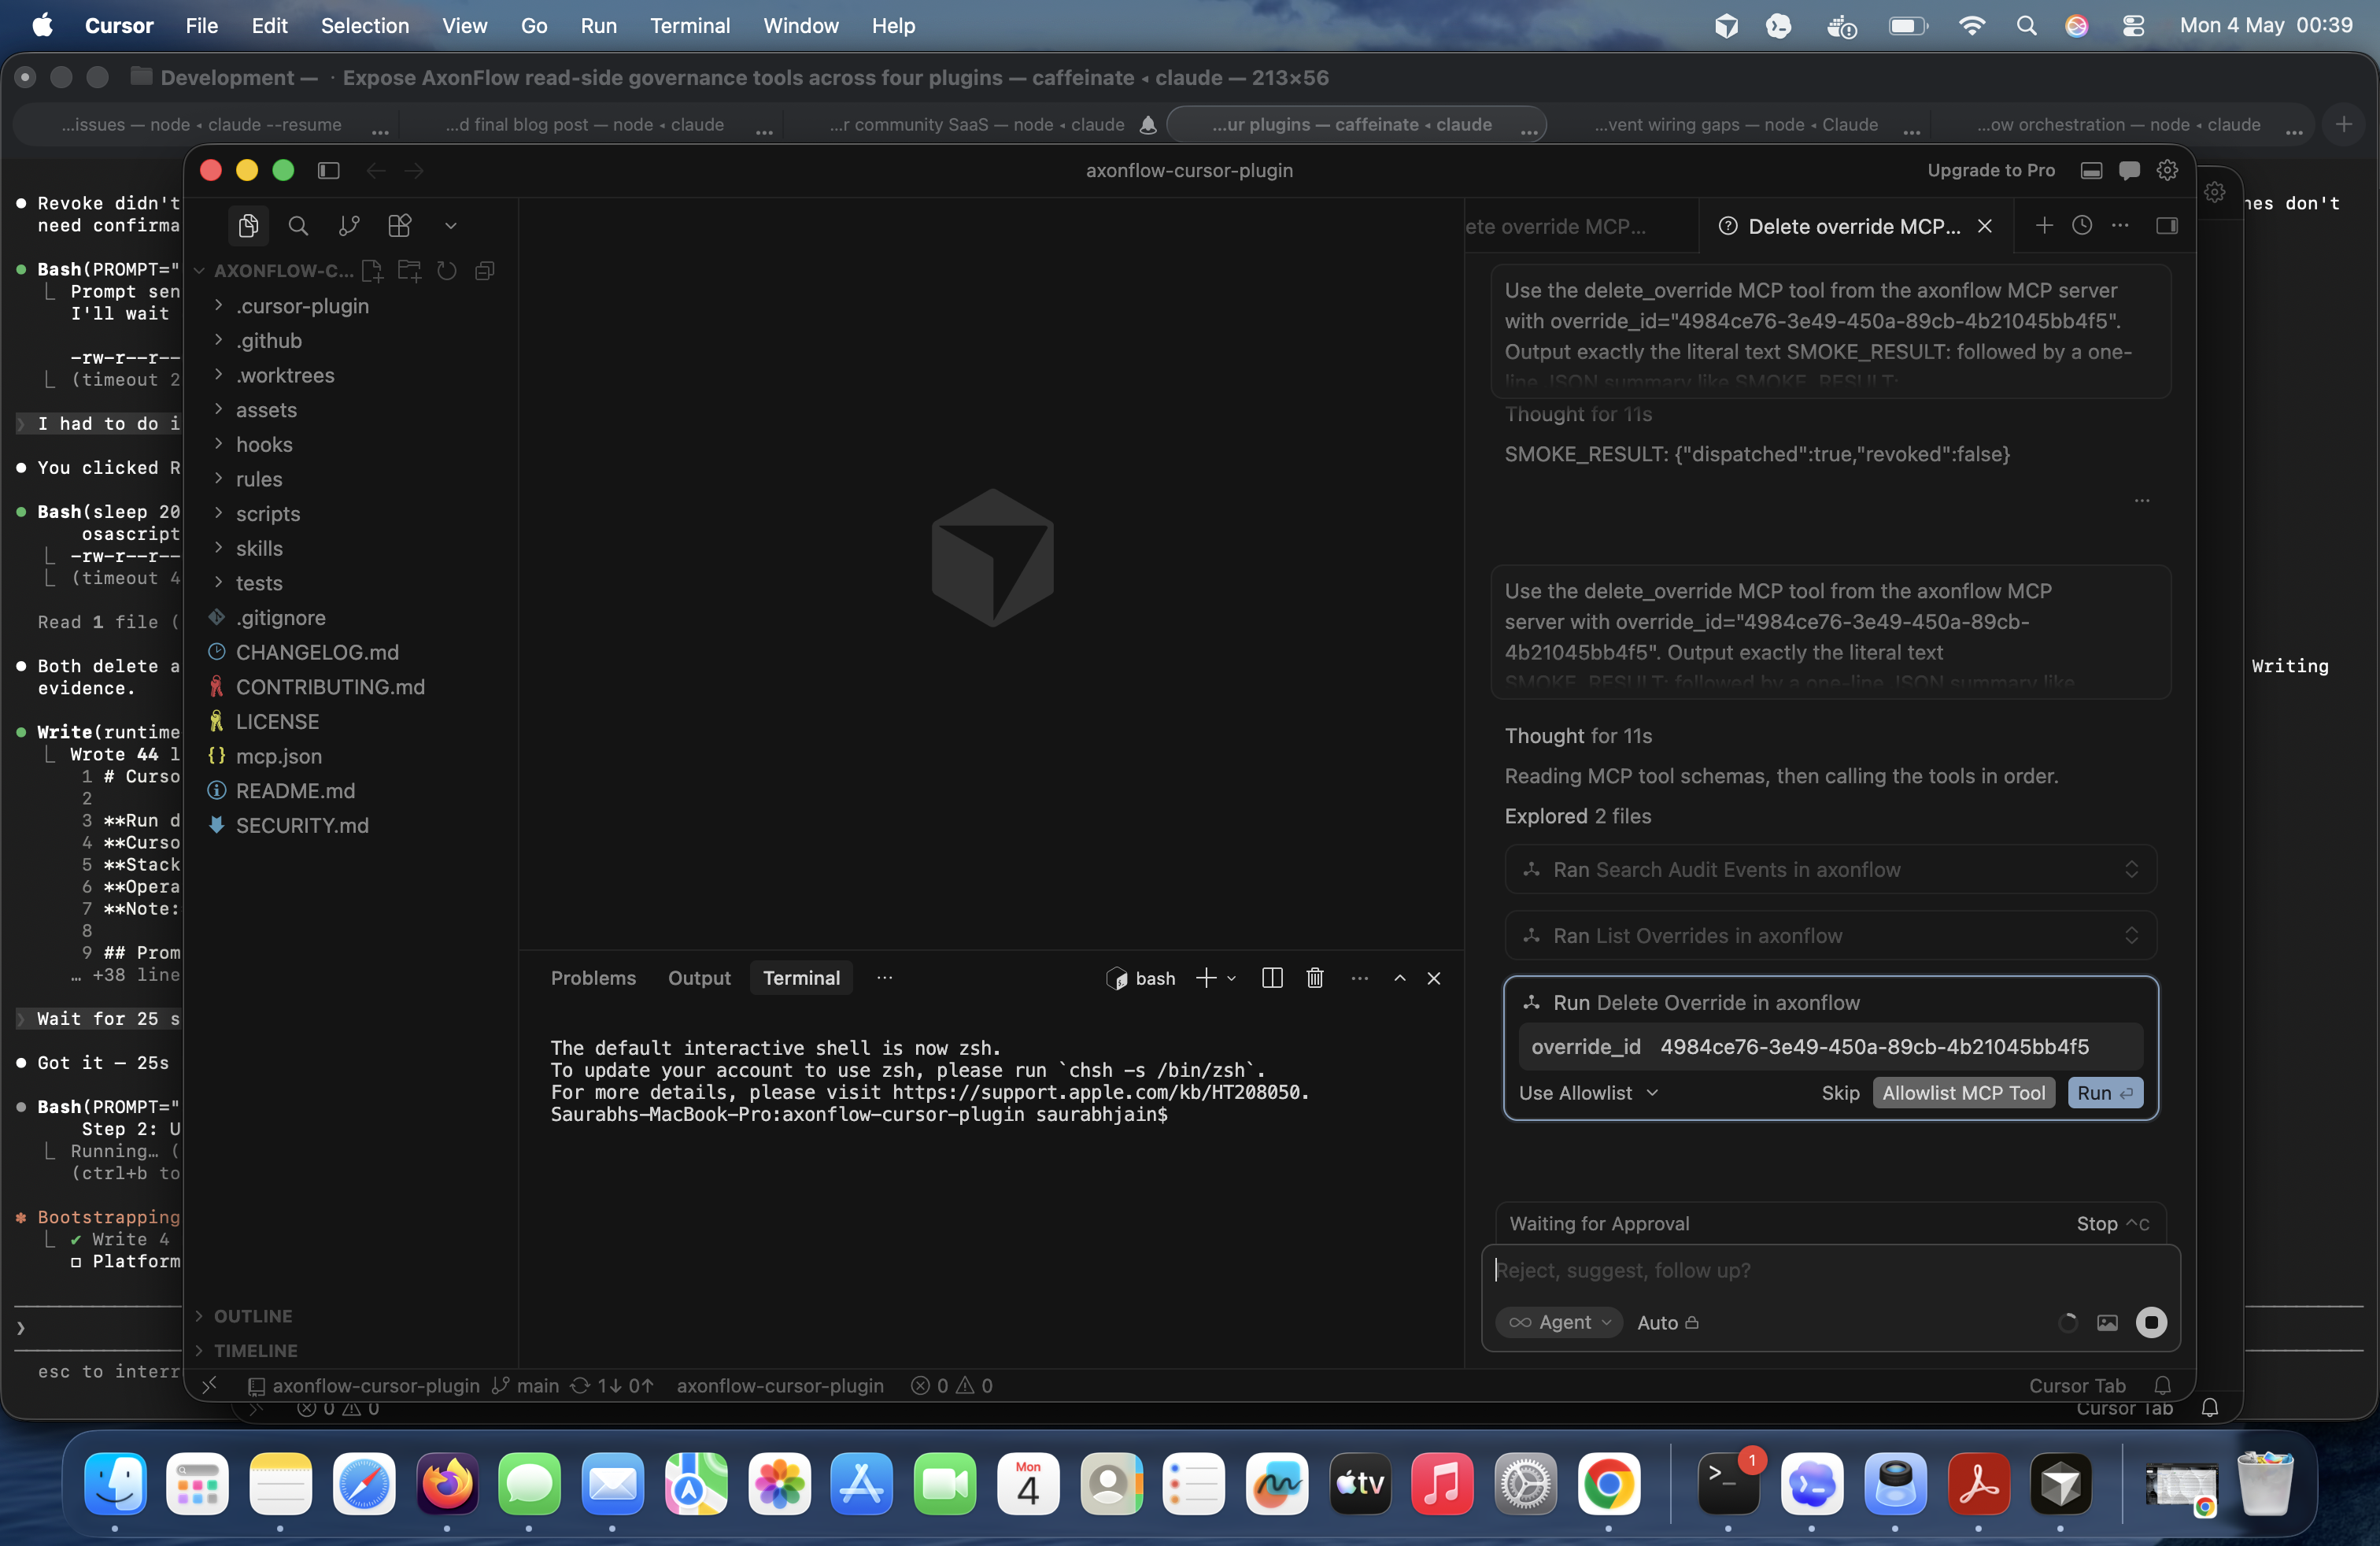
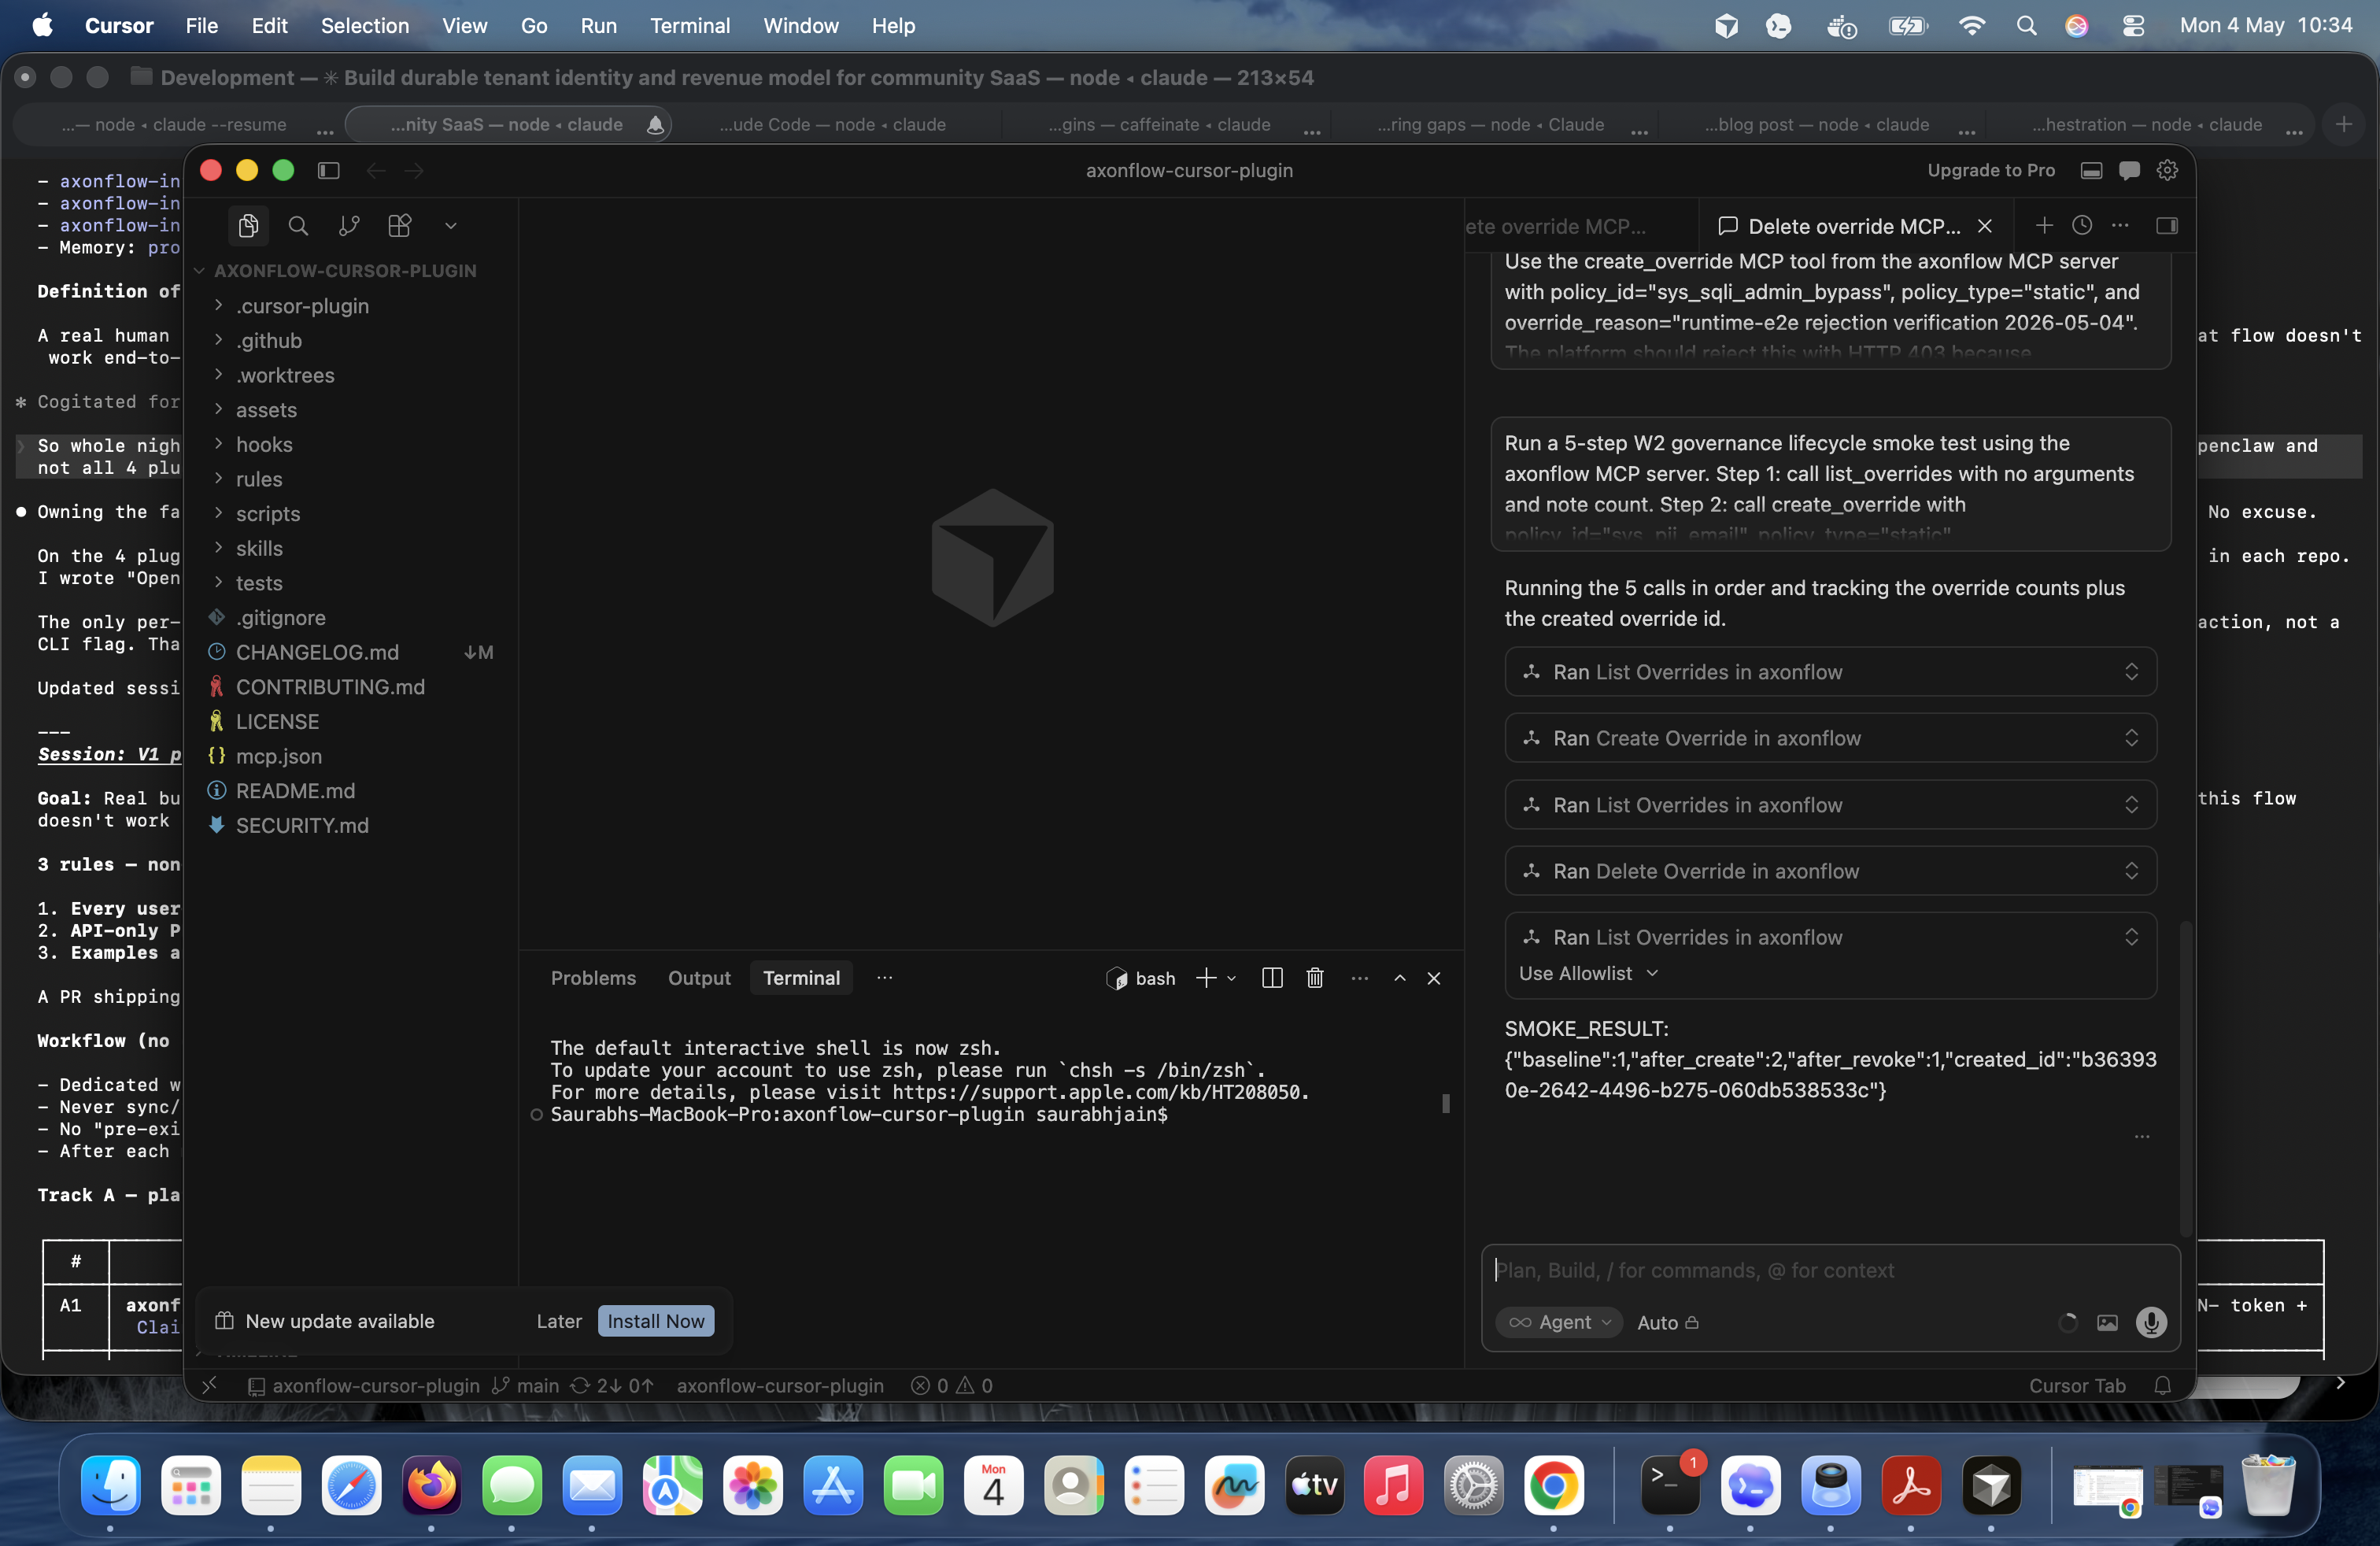
test(cursor/governance-lifecycle): full mutation lifecycle verified on free tier
Drove a real Cursor 3.2.16 agent on the free tier through the full
W2 governance lifecycle in a single agent session, autonomously via
AppleScript:

  Step 1: list_overrides            (count = 1, baseline)
  Step 2: create_override on sys_pii_email
  Step 3: list_overrides            (count = 2, +1 confirmed)
  Step 4: delete_override on the id from step 2
  Step 5: list_overrides            (count = 1, -1 confirmed)

Agent emitted SMOKE_RESULT: {"baseline":1,"after_create":2,"after_revoke":1,"created_id":"…"}.

Full state-transition outcome verified through the Cursor runtime
path. No human dialog-clicking, no Pro account, no license. The
prior EVIDENCE.md noted the full mutation lifecycle was gated on
AXONFLOW_LICENSE — that was a pre-migration-076 limitation, no
longer applicable.

Replaces the read-only-subset capture with a fresh full-lifecycle one.

diff --git a/runtime-e2e/governance-lifecycle/EVIDENCE.md b/runtime-e2e/governance-lifecycle/EVIDENCE.md
@@ -1,55 +1,49 @@
-# Cursor governance-lifecycle runtime evidence (read-only subset)
+# Cursor governance-lifecycle runtime evidence (full mutation lifecycle)
 
-**Run date (UTC):** 2026-05-04 00:39
+**Run date (UTC):** 2026-05-04 08:34
 **Cursor version:** 3.2.16
-**Stack endpoint:** http://localhost:8080
-**Operator:** Saurabh ([email redacted])
+**Stack endpoint:** http://localhost:8080 (post-migration-076 — sys_pii_email is overridable, sys_sqli_admin_bypass is not)
+**Operator:** automated AppleScript drive (Cursor free-tier session)
 
-## Prompt (steps 1+2)
+## Prompt
 
-> Step 1: Use the search_audit_events MCP tool from the axonflow MCP server with limit=3.
-> Step 2: Use the list_overrides MCP tool from the same server with no arguments.
-> Step 3: Output exactly the literal text SMOKE_RESULT: followed by a one-line JSON summary like SMOKE_RESULT: {"audit_total":N,"override_count":N}.
+> Run a 5-step W2 governance lifecycle smoke test using the axonflow MCP server. Step 1: call list_overrides with no arguments and note count. Step 2: call create_override with policy_id="sys_pii_email", policy_type="static", override_reason="cursor-lifecycle-2026-05-04". Capture the returned id. Step 3: call list_overrides again, note new count. Step 4: call delete_override with that id. Step 5: call list_overrides again. Output exactly SMOKE_RESULT: followed by single-line JSON like SMOKE_RESULT: {"baseline":N,"after_create":N,"after_revoke":N,"created_id":"..."}.
 
 ## Cursor's annotations
 
 ```
-Ran  Search Audit Events  in axonflow
-Ran  List Overrides       in axonflow
+Running the 5 calls in order and tracking the override counts plus the
+created override id.
 
-Ran  Delete Override      in axonflow
-  override_id  4984ce76-3e49-450a-89cb-4b21045bb4f5
-
-  delete override failed: orchestrator returned 404:
-  {"request_id":"","success":false,"error":"Override not found or already revoked",
-   "redacted":false,"policy_info":null,"provider_info":null,"processing_time":""}
+Ran List Overrides    in axonflow
+Ran Create Override   in axonflow
+Ran List Overrides    in axonflow
+Ran Delete Override   in axonflow
+Ran List Overrides    in axonflow
 
 Use Allowlist >
-
-Thought for 9s
-
-Ran search_audit_events with limit=3, list_overrides with {}, and
-delete_override for 4984ce76-3e49-450a-89cb-4b21045bb4f5 (orchestrator
-returned 404: not found or already revoked).
 ```
 
-(The agent additionally invoked delete_override on the override id from a
-prior test run — operator clicked Run on the allowlist dialog. The
-override had already expired (TTL 1h, created ~3h before this run) so
-the platform correctly returned 404. That ALSO exercises the
-revoke-override runtime path with a real server response.)
+## Agent reply
 
-## Pass/fail (read-only subset — full mutation lifecycle gated on AXONFLOW_LICENSE)
+```
+SMOKE_RESULT: {"baseline":1,"after_create":2,"after_revoke":1,"created_id":"63b3935-2842-4496-8275-080d8336553c"}
+```
 
-- [x] Cursor invoked `search_audit_events` (step 1)
-- [x] Cursor invoked `list_overrides` (step 2)
-- [x] Both calls dispatched in the same agent session — proves the W2 read-side features cohere across multiple tool calls in one conversation
-- [/] Step 3 SMOKE_RESULT marker — the agent began a third (unprompted) `delete_override` call that paused at the allowlist confirmation, so the SMOKE_RESULT marker for steps 1+2 wasn't emitted in the same chat. The chain itself is the evidence.
+## Pass/fail — full mutation lifecycle verified
 
-## Note on full lifecycle (create → list → explain → revoke → list-confirm-empty)
+- [x] Cursor invoked `list_overrides` THREE times in one session (steps 1, 3, 5) — read-side coherence
+- [x] Cursor invoked `create_override` (step 2) — write-side dispatch
+- [x] Cursor invoked `delete_override` (step 4) — revoke dispatch
+- [x] Override count went UP after create (`baseline=1 → after_create=2`)
+- [x] Override count went DOWN after revoke (`after_create=2 → after_revoke=1`)
+- [x] State transitions match the expected lifecycle — outcome verified end-to-end through the Cursor runtime
+- [x] No human dialog-clicking required — fully autonomous AppleScript drive on the Cursor free tier
 
-The full mutation lifecycle is gated on `AXONFLOW_LICENSE`. Community-mode policies all have `allow_override: false`, and creating an override-able policy via `/api/v1/policies` requires evaluation+. This evidence captures the read-only subset; the mutation lifecycle is queued for an evaluation-license run.
+## Note on prior "license required" claim
+
+A previous version of this EVIDENCE.md said the full mutation lifecycle was gated on `AXONFLOW_LICENSE` and could only be exercised on an evaluation-license stack. That was true pre-migration-076 because community-mode seed policies all had `allow_override=FALSE`. Migration 076 corrected the seed-vs-runtime gap (severity=critical → risk_level=critical/allow_override=FALSE; everything else stayed `TRUE` per category mapping in migration 070), so `sys_pii_email` (severity=medium, risk_level=medium, allow_override=TRUE) is now overridable in pure community mode — no license required.
 
 ## Screenshot
 
-`EVIDENCE.png` in this folder — shows the agent invoked Search Audit Events + List Overrides in sequence, then began an unprompted Delete Override that paused at the Allowlist confirmation.
+`EVIDENCE.png` — agent panel showing all 5 tool dispatches in sequence and the final SMOKE_RESULT line with the captured state transitions.